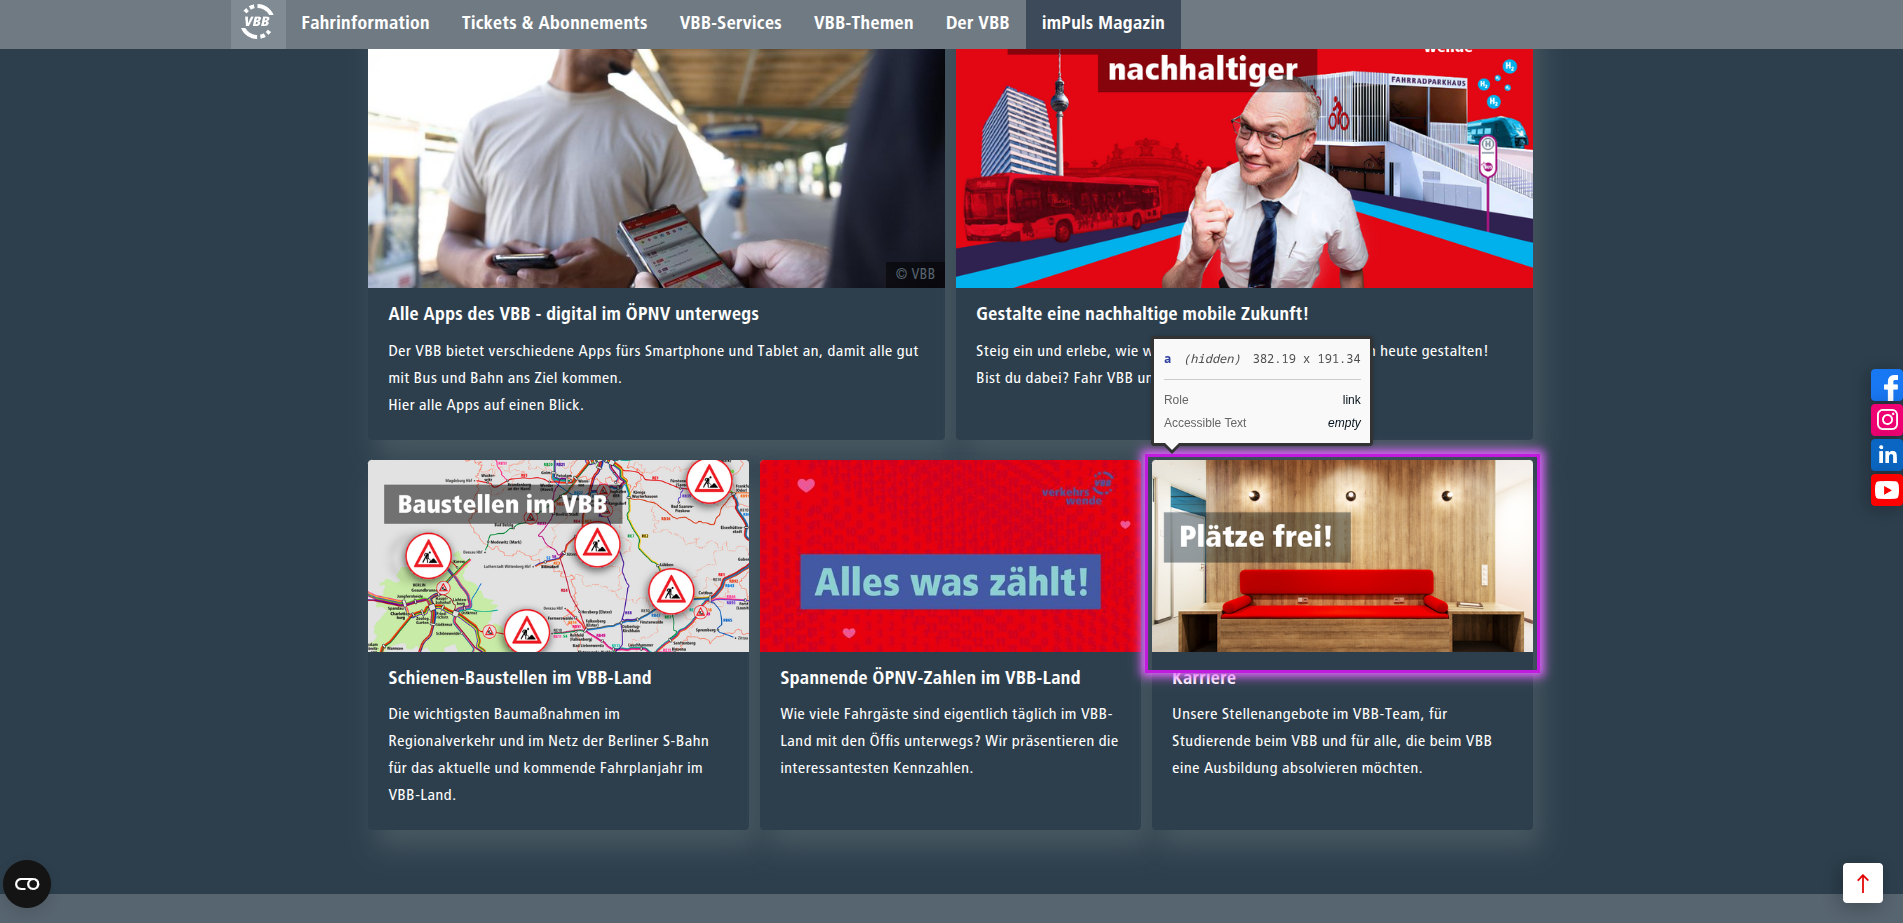
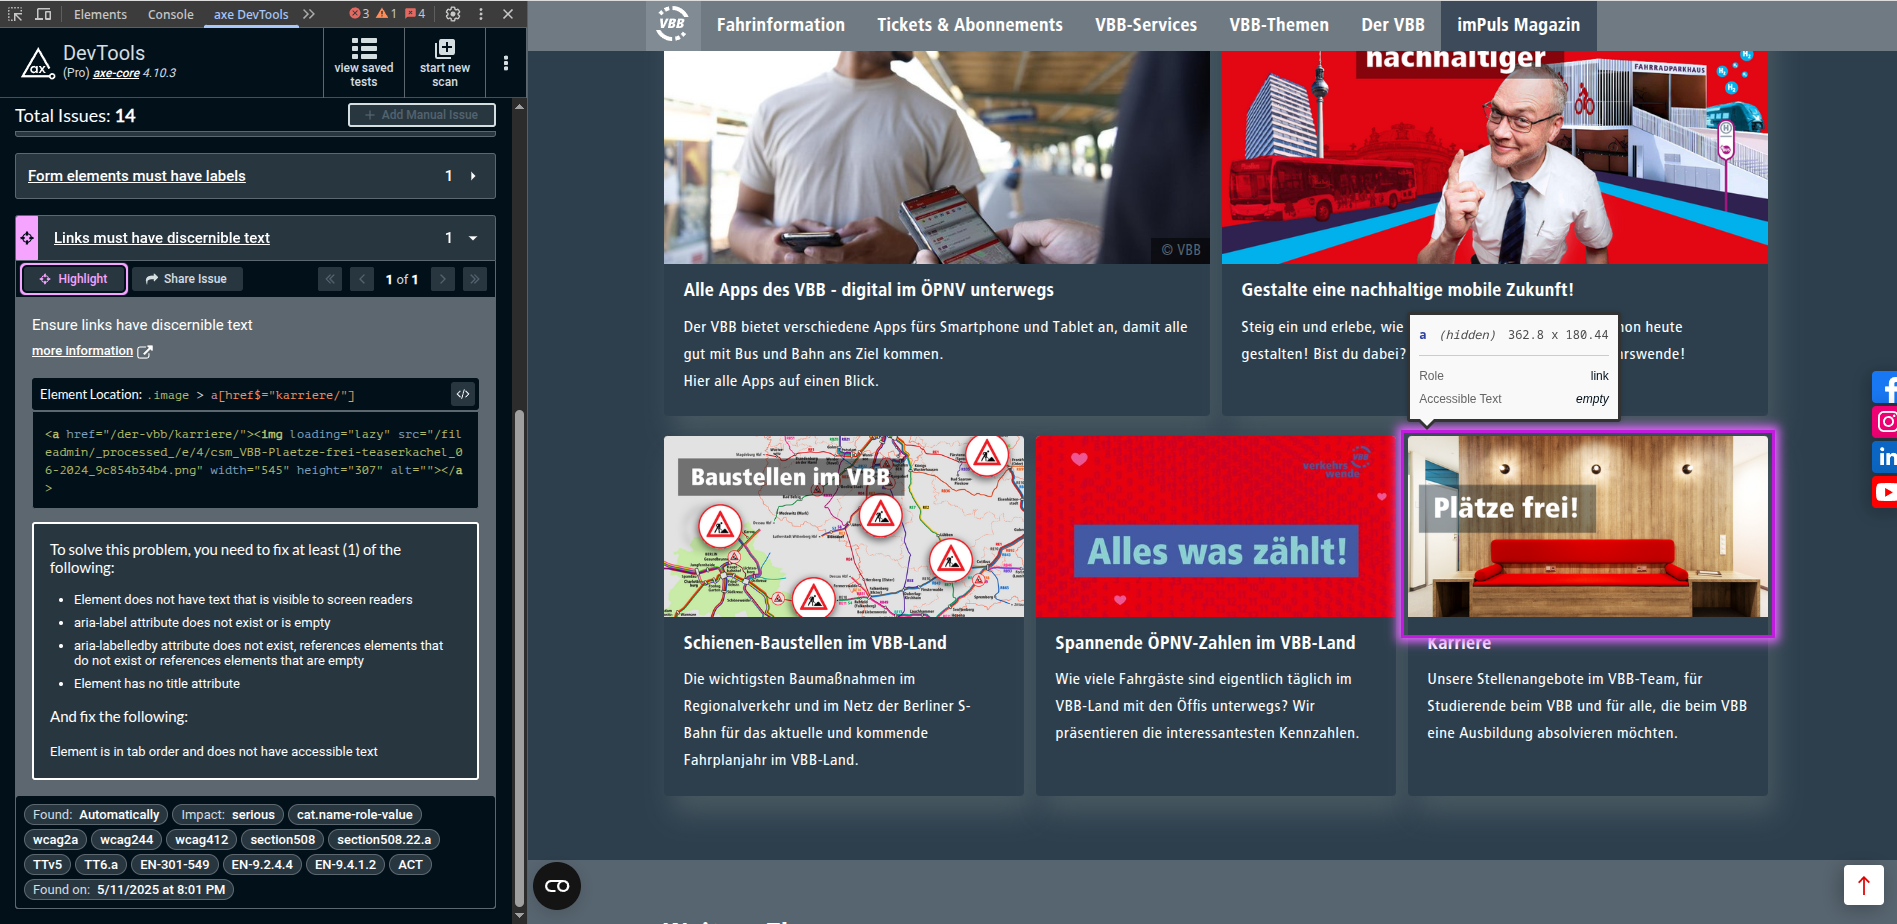
Add vbb analysis

diff --git a/thesis/chapters/03_analyse-bestandsseiten.tex b/thesis/chapters/03_analyse-bestandsseiten.tex
@@ -162,3 +162,99 @@ Im Vergleich zur Sparkasse überscheiden sich die Fehler zum größten Teil. Bis
 \caption{Auswertung Analyse ING}
 \end{figure}
     
+\subsection{Analyse VBB Verkehrsverbund Berlin-Brandenburg GmbH}
+In der Kategorie der Personenbeförderung wurde die Webseite des VBB Verkehrsverbund Berlin-Brandenburg GmbH ausgewählt.
+
+Ein Fehler der auf der Website wiederholt auftritt, ist der Verstoß gegen Kriterium 1.4.3 "Mindestkontrast". Dabei handelt es sich um Kontrastprobleme zwischen Text und Hintergrund. Betroffen sind davon die Texte im Menü, einige Überschriften und Stichpunkte und Buttons auf der Startseite.
+
+\begin{figure}[H]
+    \includegraphics[width=\textwidth]{img/vbb_failed-minimum-contrast.png}
+    \caption{Kontrastprobleme auf der Startseite}
+\end{figure}
+
+Außerdem fehlen auch hier, wie bei der Sparkasse auch, Labels bei den Suchfeldern. Dies Verstößt gegen 4 WCAG-Kriterien 1.1.1 "Nicht-Text-Inhalt", 1.3.1 "Info und Beziehungen", 2.4.6 "Überschriften und Beschriftungen" und 3.3.2 "Labels oder Anleitungen". 
+
+\begin{figure}[H]
+    \includegraphics[width=\textwidth]{img/vbb_no-label.png}
+    \caption{Fehlendes Label bei einem Suchfeld}
+\end{figure}
+
+Weitere Grundlegende Elemente wie alternative Texte für Bilder fehlen auch auf dieser Seite. Diese sind wichtig um den Inhalt der Seite auch für Screenreader und Maschinen lesbar zu machen. 
+
+\begin{figure}[H]
+    \includegraphics[width=\textwidth]{img/vbb_no-alt-text.png}
+    \caption{Fehlender alternativer Text}
+\end{figure}
+
+Durch die hablautomatisierten Tests ist ein weiterer gravierender Mangel festgestellt worden. Die Startseite ist nicht vollständig mit der Tastatur bedienbar. Die Seite enthält einen Slider, der die Logos der Verkehrsunternehmen anzeigt. Dieser Slider fängt wieder von vorne an, wenn man das Ende erreicht. Das passiert aber auch, wenn man mit der Tastatur navigiert und im Slider hängen bleibt. Man ist also in einer sogenannten Keyboard-Trap gefangen und kann nicht mehr vorwärts oder rückwärts navigieren. Das angesprochene Element ist in Abbildung 4.11 zu sehen.
+
+\begin{figure}[H]
+    \includegraphics[width=\textwidth]{img/vbb_keyboard-trap.png}
+    \caption{Slider mit Keyboard-Trap}
+\end{figure}
+
+Im Bereich der Tastaturbedienbarkeit sind auch einige Elemente nicht korrekt fokussierbar. Wenn die Seite manuell mit der Tastatur bedient wird, verschwindet der Fokus für 2 Tabstops. Damit ist das Kriterium 2.4.7 "Fokussierbarkeit" nicht erfüllt.
+
+Auf den Unterseitenm, wie die Fahrinfo, wiederholen sich die Kontrastfehler, da das Menü konstant auf den verschiedenen Seiten angelegt ist. Allerdings hat der iframe keinen zugänglichen Namen. Dies ist ein Verstoß gegen Kriterium 4.1.2 "Name, Rolle, Wert".
+
+\begin{figure}[H]
+    \includegraphics[width=\textwidth]{img/vbb_no-frame-name.png}
+    \caption{Iframe ohne zugänglichen Namen}
+\end{figure}
+
+Insgesamt treten auf der Seite deutlich mehr Fehler auf als bei den vorherigen Seiten. Auch hier überscheiden sich wieder einige Fehler. Es sind aber auch neue Fehler aufgetreten, vor allem im Bereich der Tastaturbedienbarkeit.
+
+\begin{figure}[H]
+\begin{tikzpicture}
+\begin{axis}[
+    width=\textwidth,
+    height=10cm,
+    ybar,
+    bar width=12pt,
+    xlabel={WCAG-Kriterium},
+    ylabel={Fehleranzahl},
+    symbolic x coords={ 9.1.1.1, 9.1.4.3, 9.2.1.1, 9.2.4.4, 9.2.4.7, 9.4.1.2 },
+    xtick=data,
+    x tick label style={rotate=45, anchor=east},
+    ymin=0,
+    ymax=350,
+    enlarge x limits=0.1,
+    legend style={cells={anchor=west}, legend pos=north east},
+    nodes near coords,
+    nodes near coords style={font=\scriptsize},
+]
+\addplot table[x=WCAG-Kriterium,y=Fehleranzahl_axe,col sep=tab] {csv/output/wcag_analyse_vbb_xxxx.csv};
+\addplot table[x=WCAG-Kriterium,y=Fehleranzahl_WAVE,col sep=tab] {csv/output/wcag_analyse_vbb_xxxx.csv};
+\legend{axe,WAVE}
+\end{axis}
+\end{tikzpicture}
+\caption{Auswertung Analyse VBB}
+\end{figure}
+
+\subsection{Analyse HVV Hamburger Verkehrsverbund GmbH}
+\begin{figure}[H]
+\begin{tikzpicture}
+\begin{axis}[
+    width=\textwidth,
+    height=10cm,
+    ybar,
+    bar width=12pt,
+    xlabel={WCAG-Kriterium},
+    ylabel={Fehleranzahl},
+    symbolic x coords={ 9.1.1.1, 9.1.3.1, 9.1.4.1, 9.1.4.3, 9.2.1.1, 9.2.4.4, 9.2.4.6, 9.2.4.7, 9.3.3.2, 9.4.1.2 },
+    xtick=data,
+    x tick label style={rotate=45, anchor=east},
+    ymin=0,
+    ymax=350,
+    enlarge x limits=0.1,
+    legend style={cells={anchor=west}, legend pos=north east},
+    nodes near coords,
+    nodes near coords style={font=\scriptsize},
+]
+\addplot table[x=WCAG-Kriterium,y=Fehleranzahl_axe,col sep=tab] {csv/output/wcag_analyse_HVV_xxxx.csv};
+\addplot table[x=WCAG-Kriterium,y=Fehleranzahl_WAVE,col sep=tab] {csv/output/wcag_analyse_HVV_xxxx.csv};
+\legend{axe,WAVE}
+\end{axis}
+\end{tikzpicture}
+\caption{Auswertung Analyse HVV}
+\end{figure}
